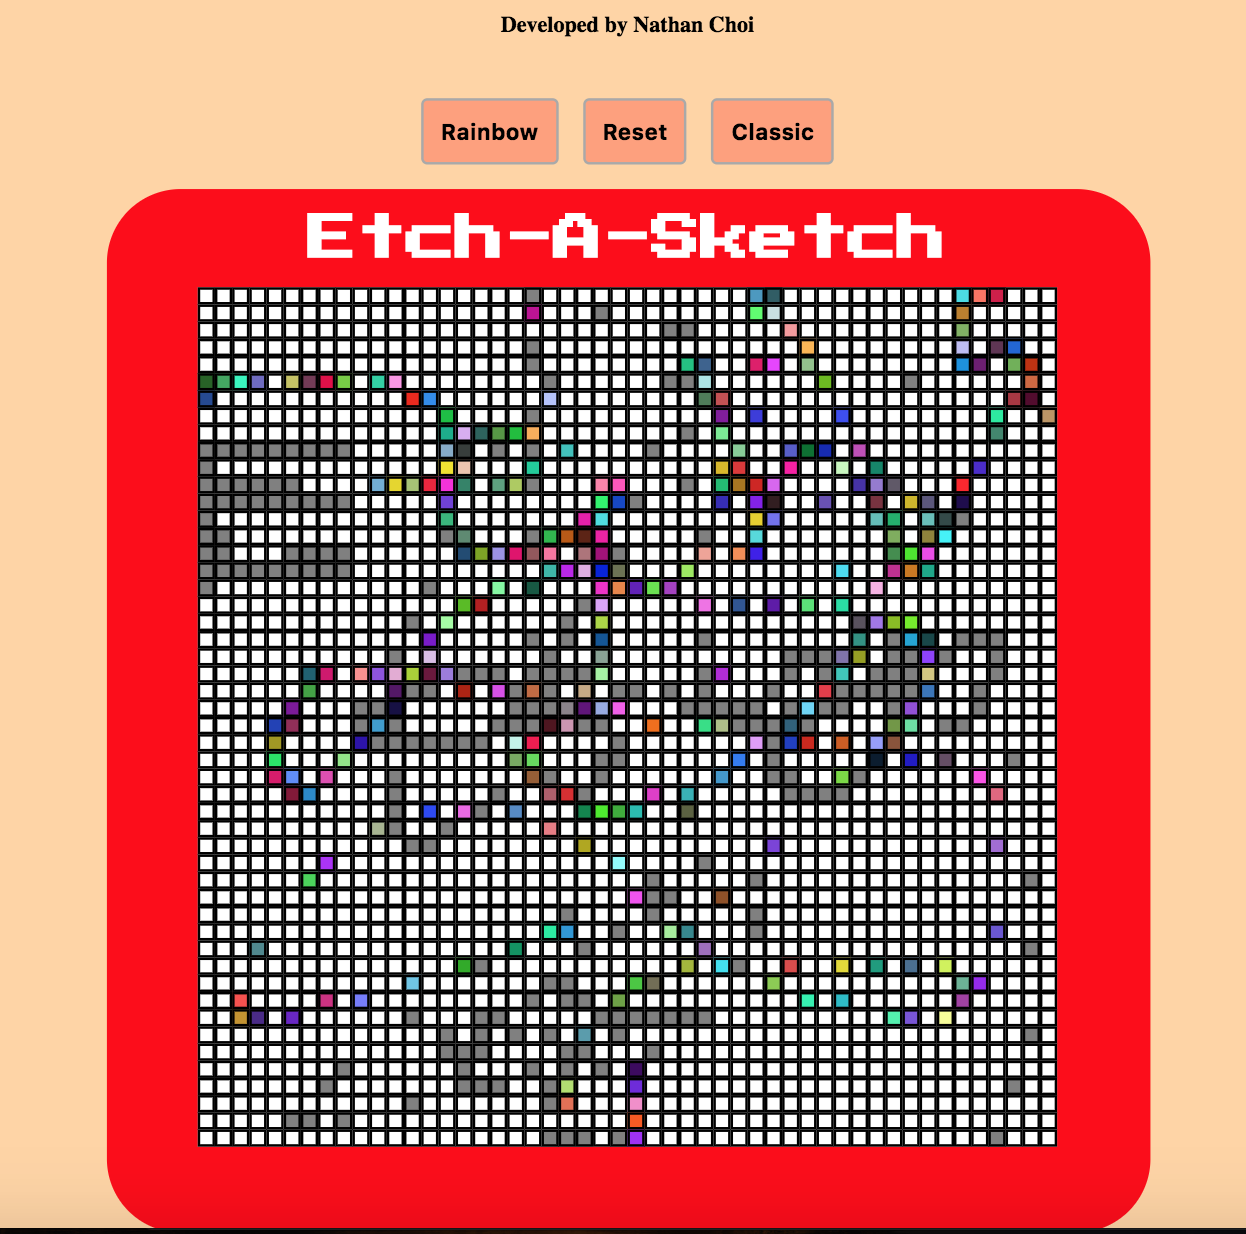
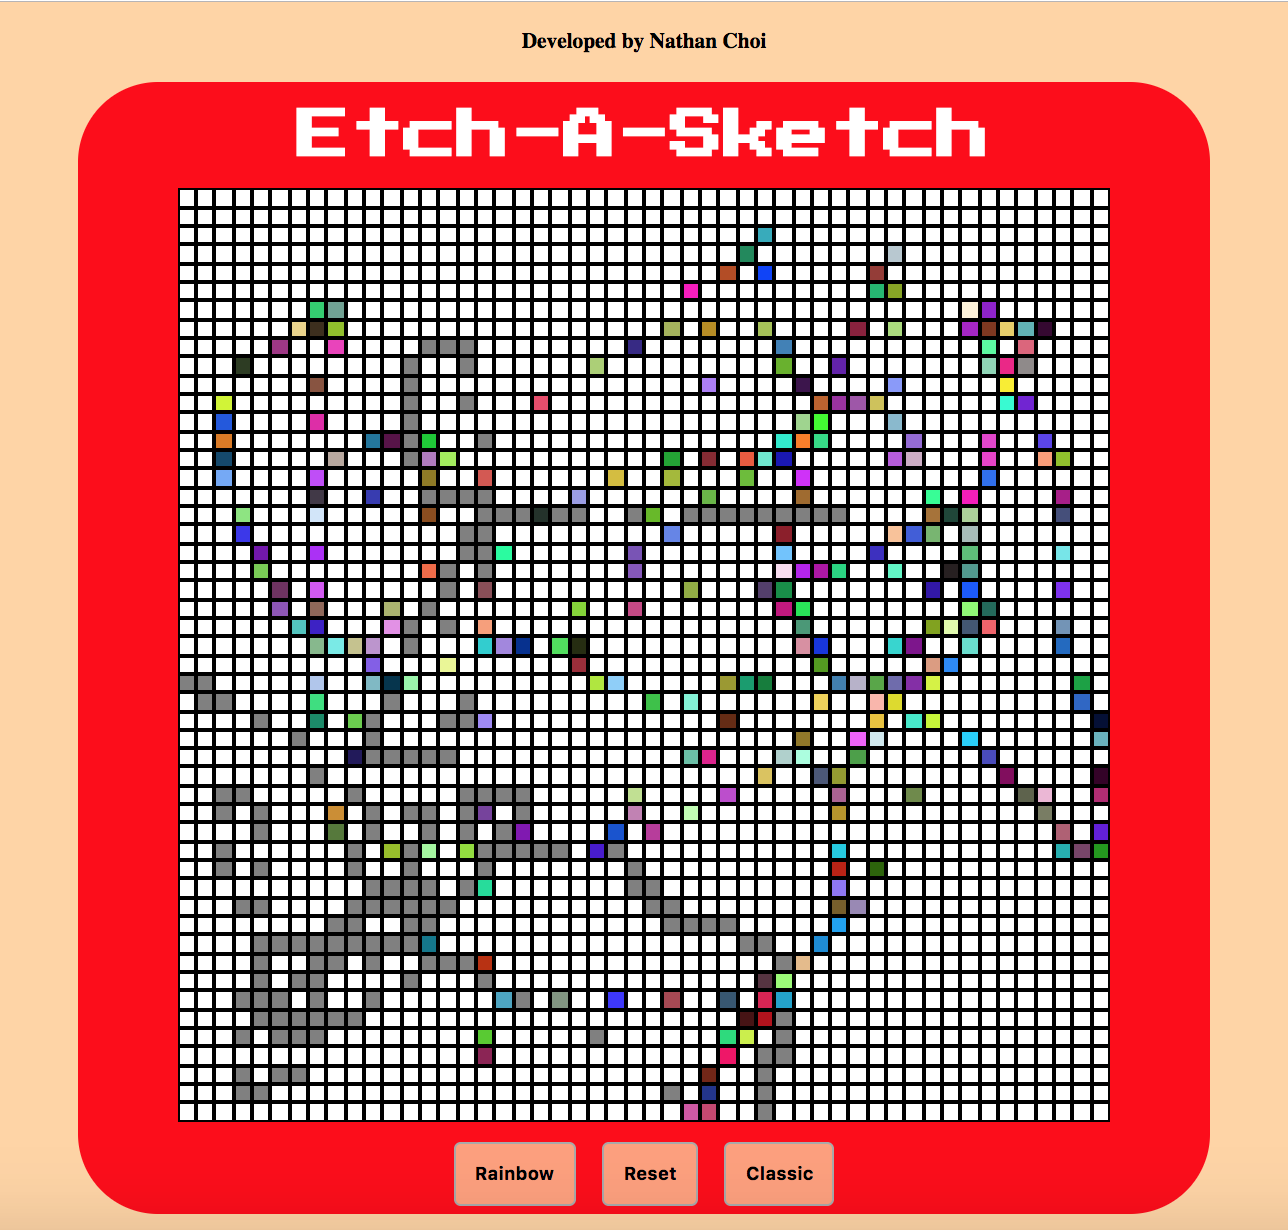
designModified

diff --git a/index.html b/index.html
@@ -9,15 +9,16 @@
     <body>
         <h4 class="intro">Developed by Nathan Choi</h4>
         <section class="wholeBoard">
-            <section class="controlBtns">
-                <button id="rainbow" class="control">Rainbow</button>
-                <button id="reset" class="control">Reset</button>
-                <button id="classic" class="control">Classic</button>
-            </section>
+
             <section class="sketchBoard">
                 <div class="redBoard"> <h1 class="title">Etch-A-Sketch</h1>
                     <div class="container"></div>
                 </div>
+            </section>
+            <section class="controlBtns">
+                <button id="rainbow" class="control">Rainbow</button>
+                <button id="reset" class="control">Reset</button>
+                <button id="classic" class="control">Classic</button>
             </section>
         </section>
     </body>

diff --git a/assets/css/style.css b/assets/css/style.css
@@ -11,15 +11,18 @@ body {
 
 .intro {
     text-align: center;
-    margin-top: 10px;
+    margin-top: 20px;
 }
 
 .wholeBoard {
     width: 95%;
-    margin: 50px auto;
+    margin: 0px auto;
+
 }
 
 .controlBtns {
+    position: relative;
+    top: -75px;
     margin: 0 auto;
     width: 50%;
     display: flex;
@@ -44,7 +47,6 @@ body {
     cursor: pointer;
     font-weight: bold;
 }
-
 
 #rainbow:hover {
     background: linear-gradient(to right, red, orange, yellow, green, blue, indigo, violet);
